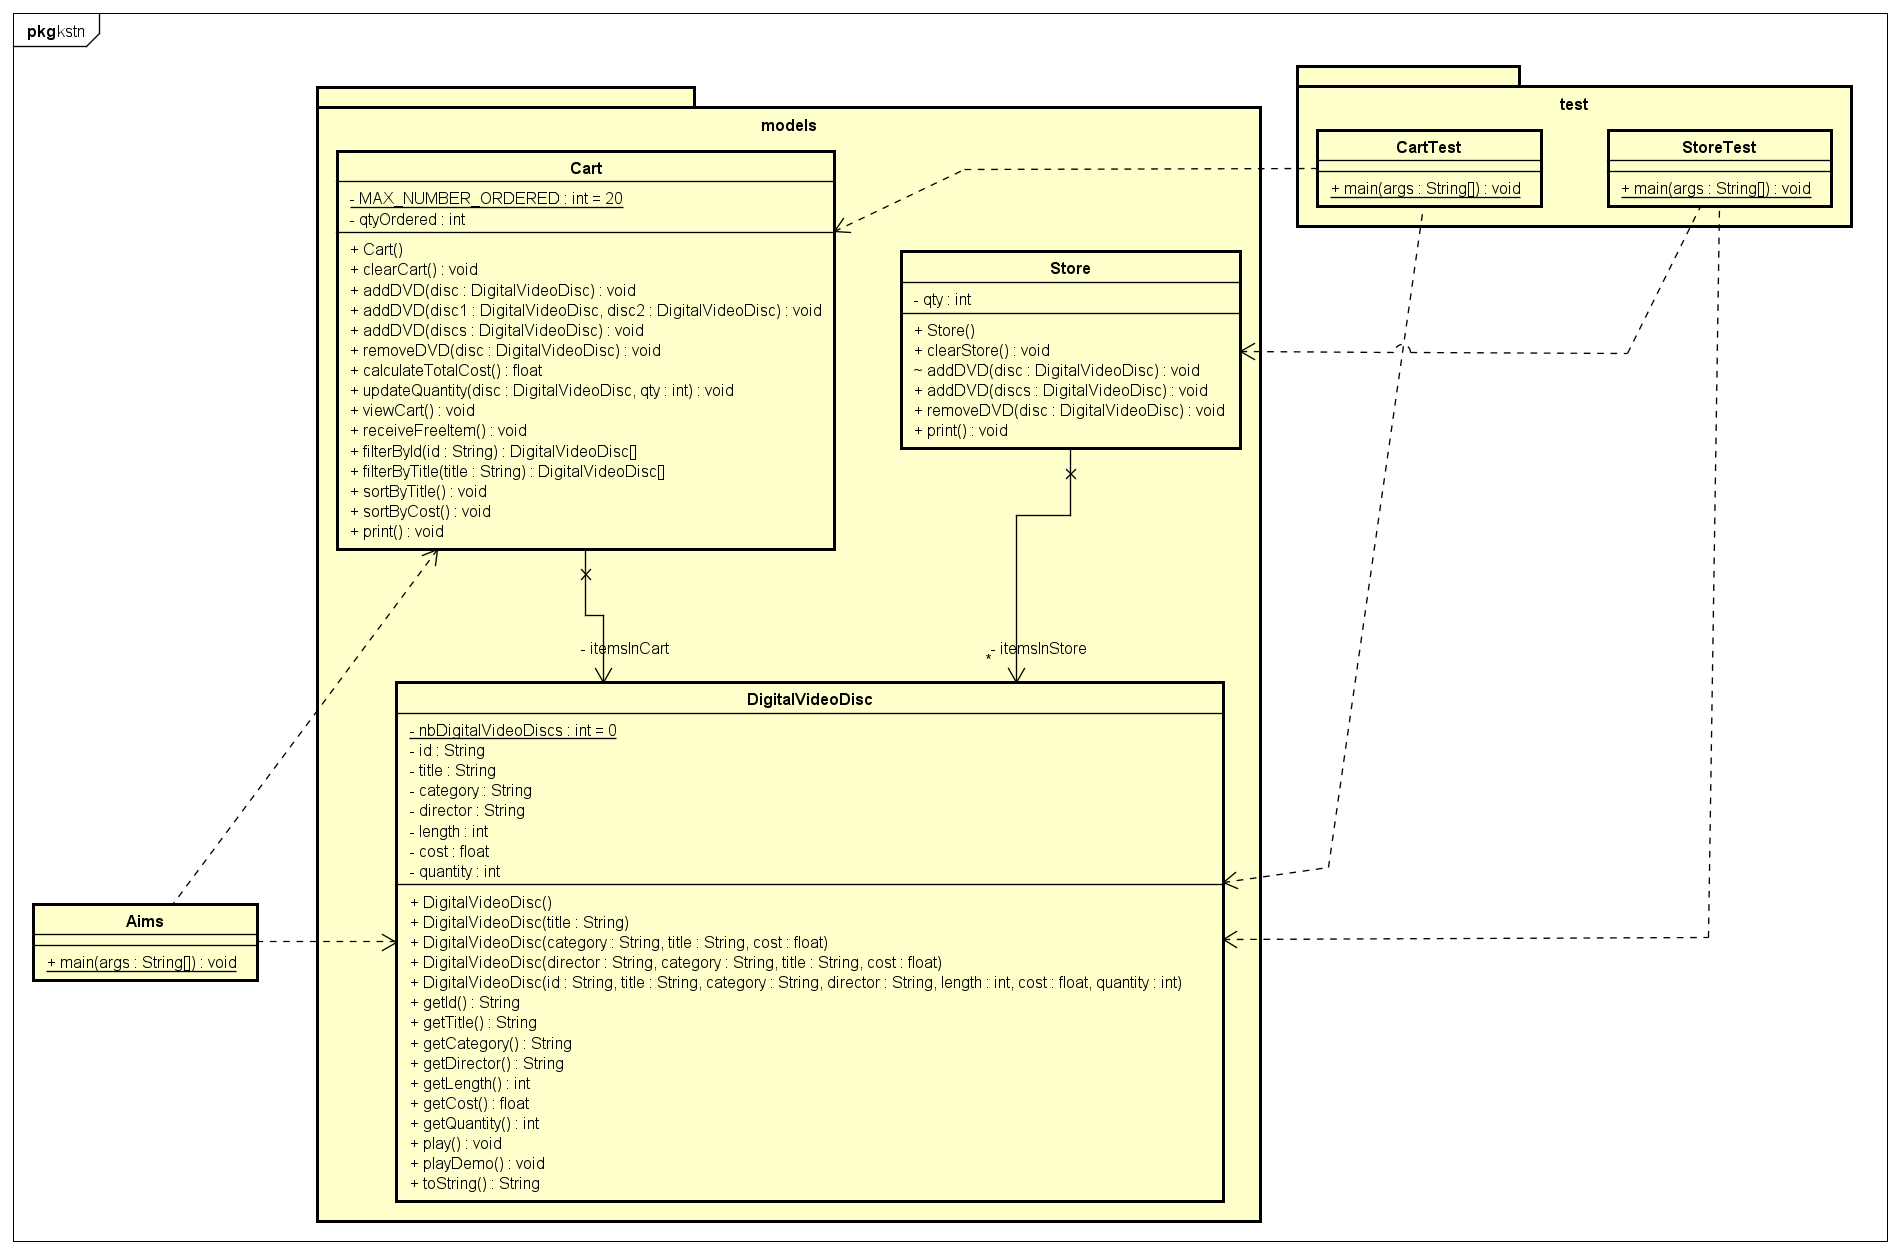
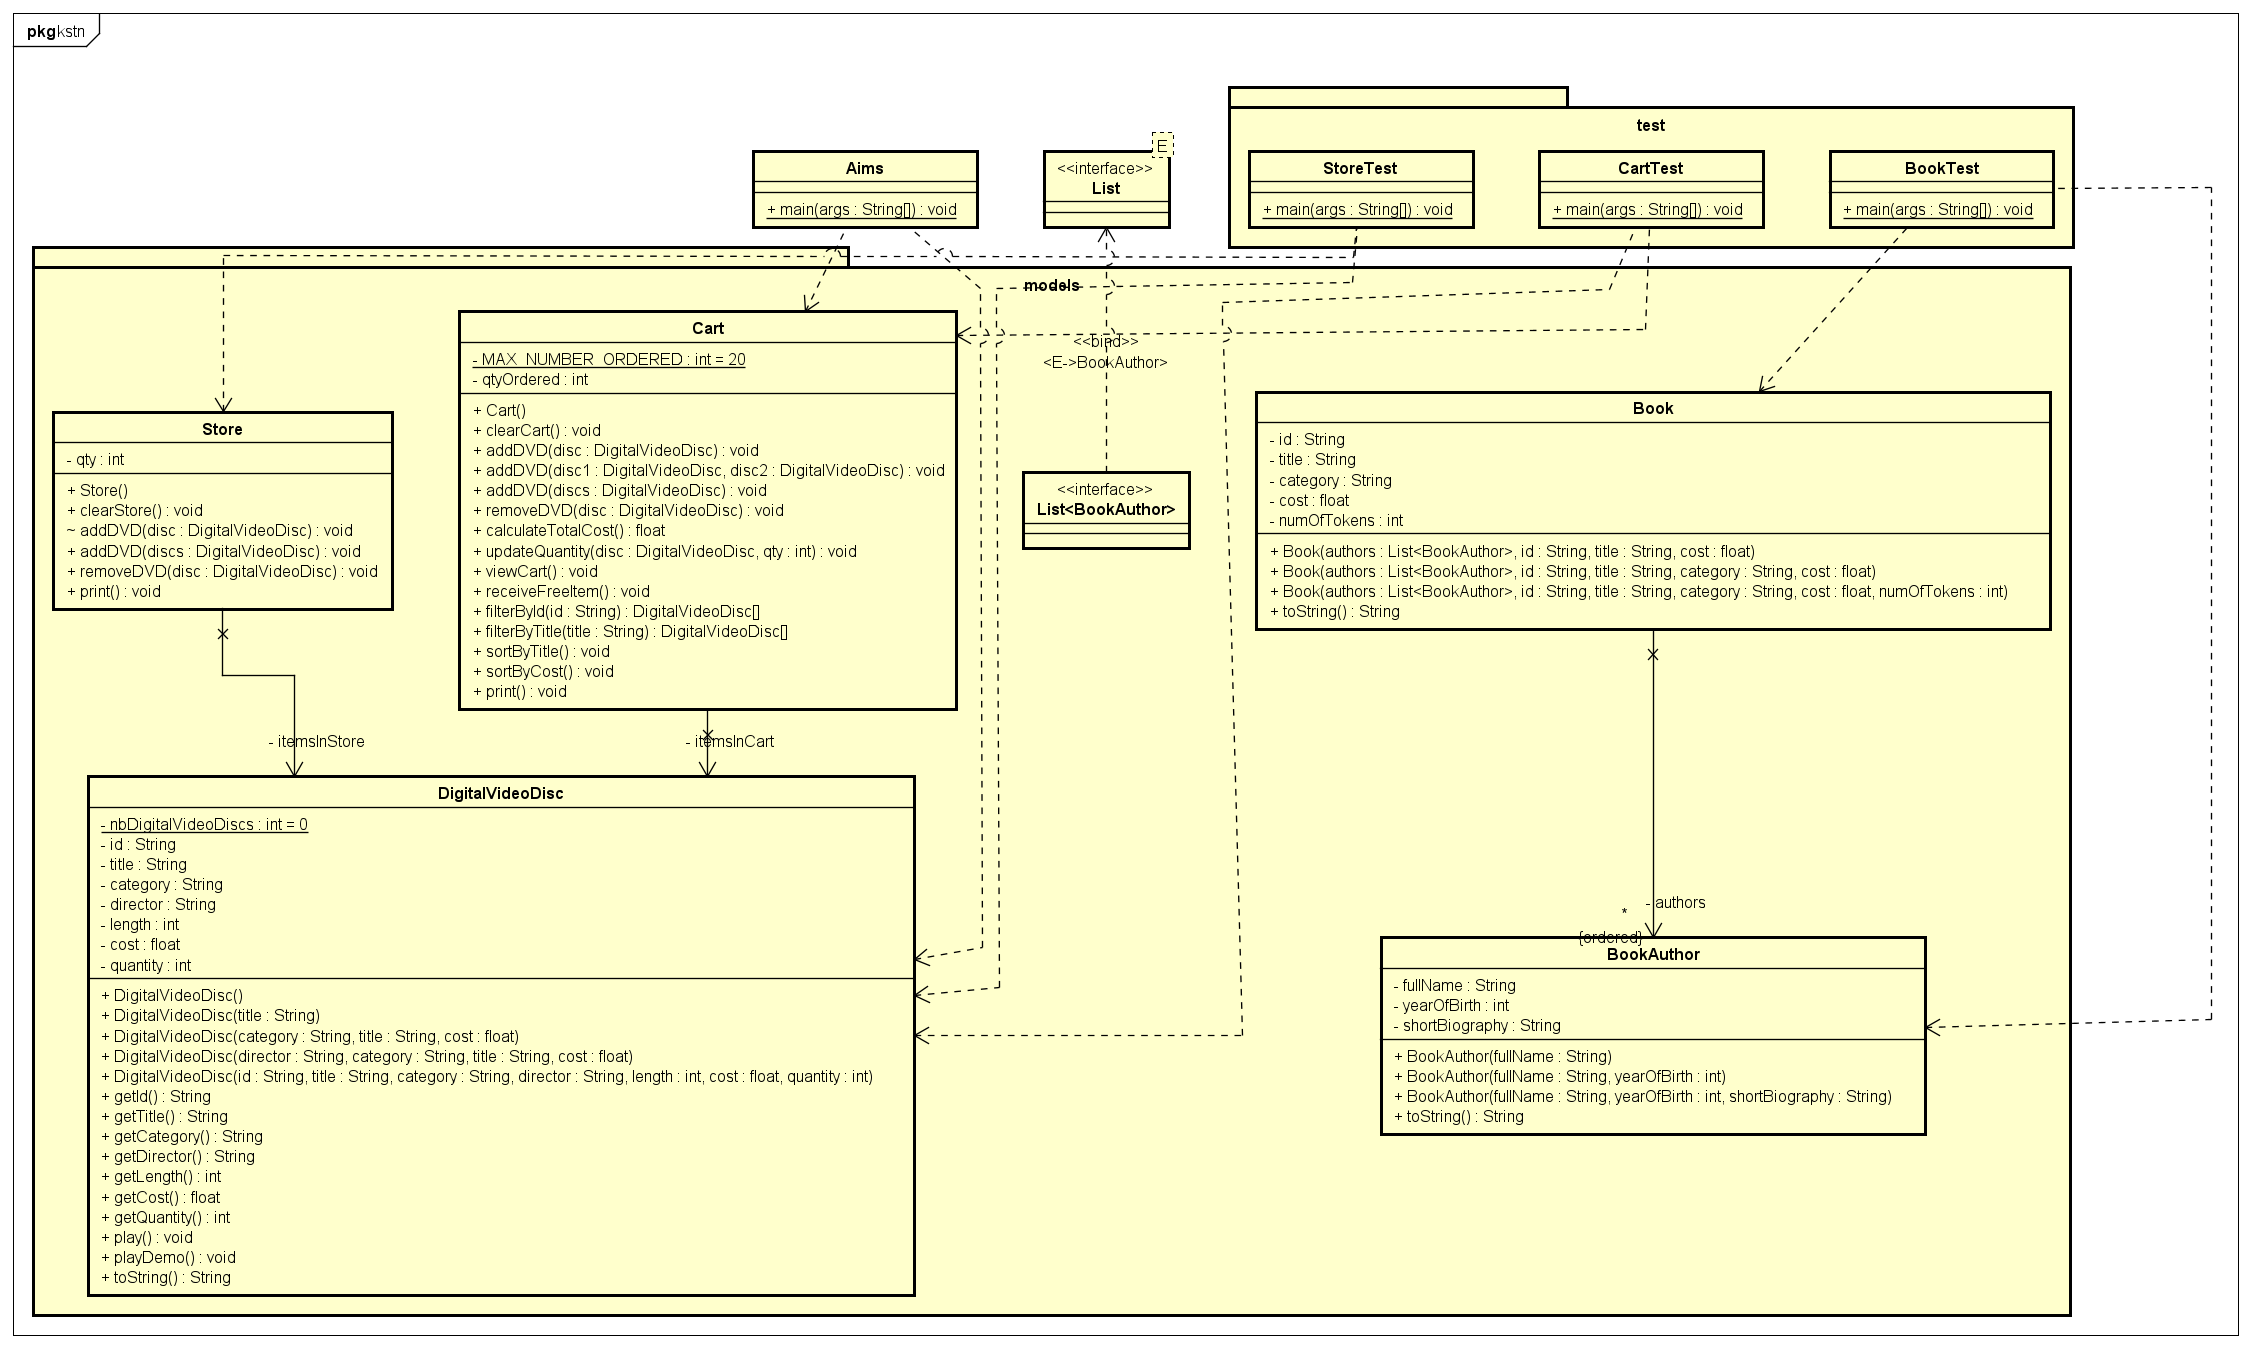
feat(book): book + tests

diff --git a/AimsProject/src/com/hust/kstn/models/Book.java b/AimsProject/src/com/hust/kstn/models/Book.java
@@ -1,0 +1,34 @@
+package com.hust.kstn.models;
+
+import java.util.ArrayList;
+import java.util.List;
+
+public class Book {
+	private List<BookAuthor> authors = new ArrayList<>();
+	private String id, title, category;
+	private float cost;
+	private int numOfTokens;
+	
+	public Book(List<BookAuthor> authors, String id, String title, float cost) {
+		this.authors = authors;
+		this.id = id;
+		this.title = title;
+		this.cost = cost;
+	}
+	
+	public Book(List<BookAuthor> authors, String id, String title, String category, float cost) {
+		this(authors, id, title, cost);
+		this.category = category;
+	}
+	
+	public Book(List<BookAuthor> authors, String id, String title, String category, float cost, int numOfTokens) {
+		this(authors, id, title, cost);
+		this.category = category;
+		this.numOfTokens = numOfTokens;
+	}
+	
+	@Override
+	public String toString() {
+		return "Book[" + id + "][" + title + "][" + cost + "][" + category + "][" + numOfTokens + "]" + "\nAuthors: " + authors;
+	}
+}

diff --git a/AimsProject/src/com/hust/kstn/test/BookTest.java b/AimsProject/src/com/hust/kstn/test/BookTest.java
@@ -1,0 +1,26 @@
+package com.hust.kstn.test;
+
+import java.util.ArrayList;
+import java.util.List;
+
+import com.hust.kstn.models.*;
+
+public class BookTest {
+
+	public static void main(String[] args) {
+		List<BookAuthor> authors = new ArrayList<>();
+		for (int i = 1; i <= 5; i++) {
+			BookAuthor author = new BookAuthor("NGUYEN", 36 * i, "ubl-bot-" + Integer.toString(i * 9));
+			authors.add(author);
+			System.out.println(author.toString());
+		}
+		Book book1 = new Book(authors, "BOOK36", "Peace and war", "anti-war", 36.36f);
+		System.out.println(book1.toString());
+		
+		BookAuthor hao = new BookAuthor("BUI CONG HAO", 20, "give me da money");
+		authors.set(2, hao);
+		Book book2 = new Book(authors, "BOOK18", "Dark nhan tam", "self help", 18.36f);
+		System.out.println(book2.toString());
+	}
+
+}

diff --git a/AimsProject/src/com/hust/kstn/models/BookAuthor.java b/AimsProject/src/com/hust/kstn/models/BookAuthor.java
@@ -1,0 +1,26 @@
+package com.hust.kstn.models;
+
+public class BookAuthor {
+	private String fullName;
+	private int yearOfBirth;
+	private String shortBiography;
+	
+	public BookAuthor(String fullName) {
+		this.fullName = fullName;
+	}
+	
+	public BookAuthor(String fullName, int yearOfBirth) {
+		this(fullName);
+		this.yearOfBirth = yearOfBirth;
+	}
+	
+	public BookAuthor(String fullName, int yearOfBirth, String shortBiography) {
+		this(fullName, yearOfBirth);
+		this.shortBiography = shortBiography;
+	}
+	
+	@Override
+	public String toString() {
+		return this.fullName + " (" + this.yearOfBirth + ", " + this.shortBiography + ")\n";
+	}
+}
